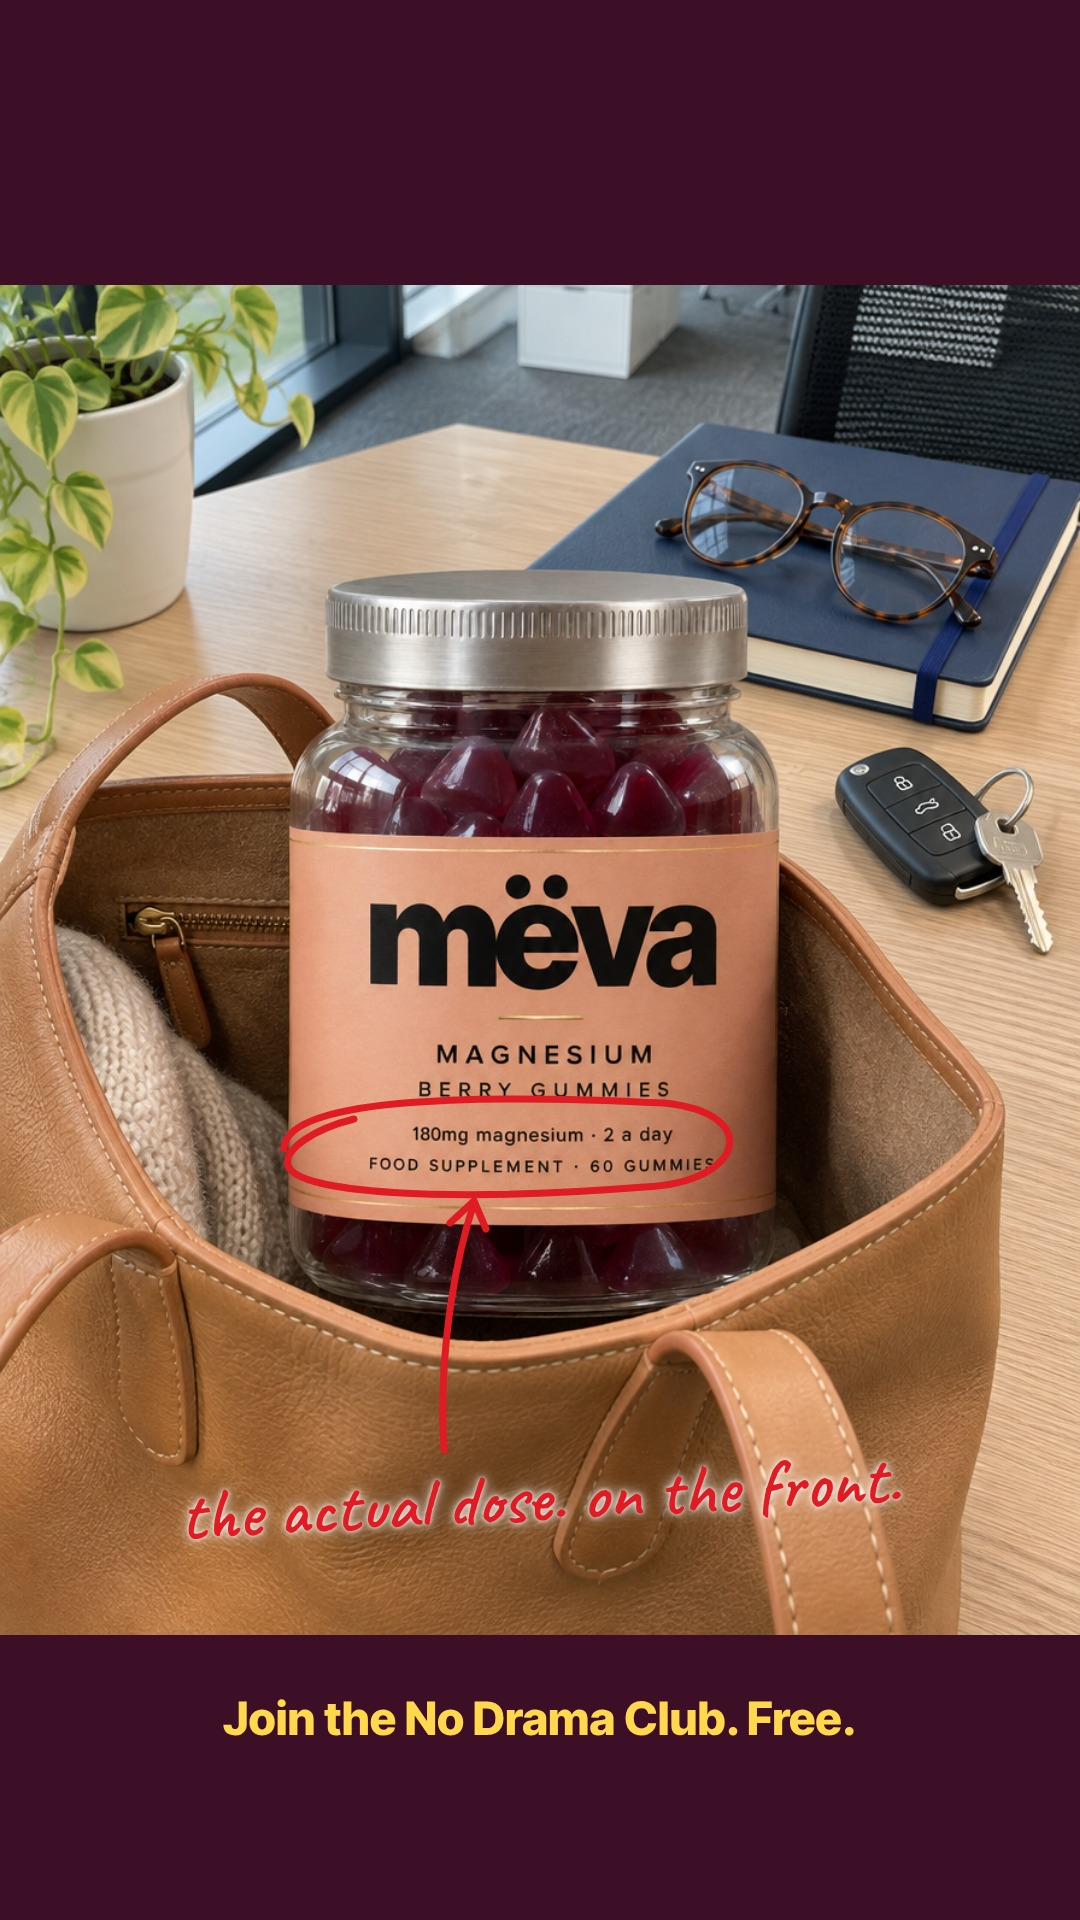
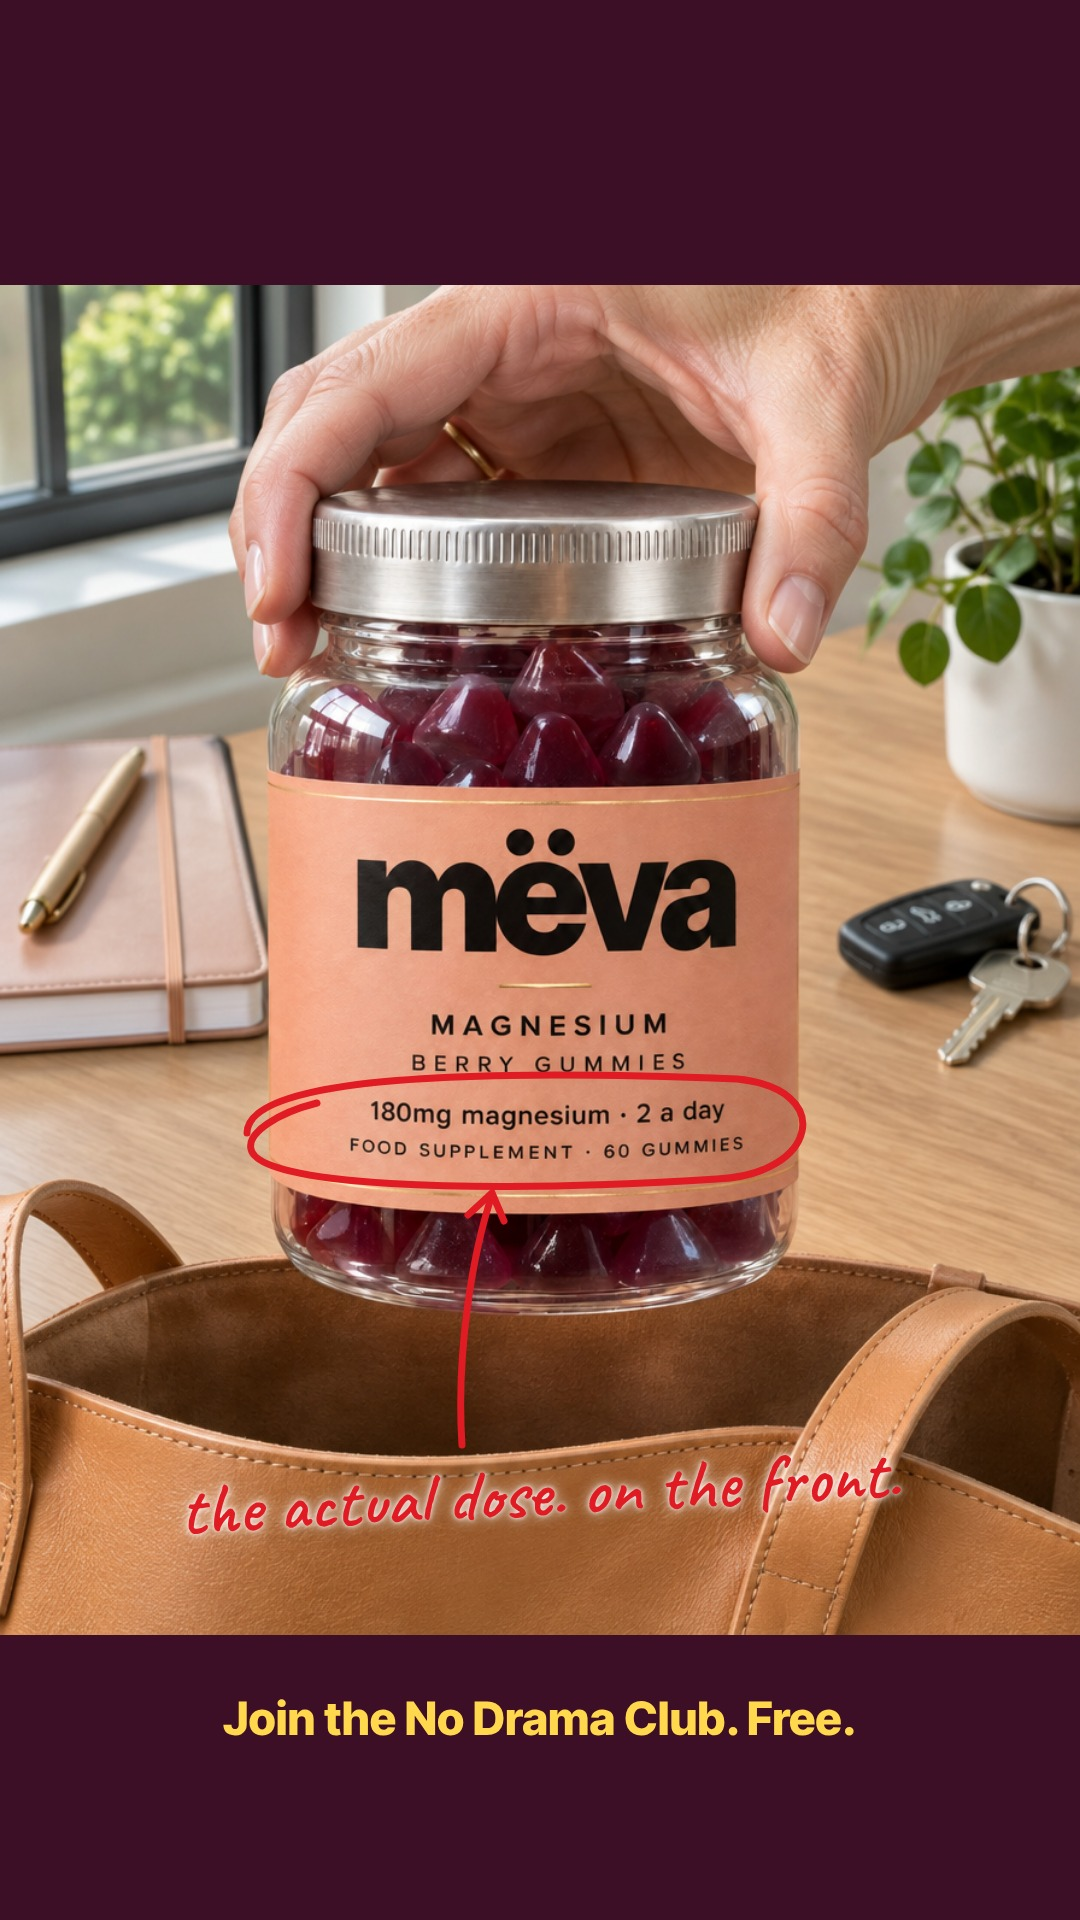
Mëva R2: replace 2.2 bag photo
Claude-Session: https://claude.ai/code/session_01WXdKv1YfkNwKWVtsSuXmEc

diff --git a/meva/ads/r2-copy.md b/meva/ads/r2-copy.md
@@ -49,7 +49,7 @@ Magnesium contributes to the reduction of tiredness and fatigue.
 Join the No Drama Club for free. It costs nothing, and the first 500 get 20% off a single jar.
 
 ## Set 2: same note ("the actual dose. on the front."), 5 new photos
-Photos: 2.1 bathroom shelf · 2.2 tote bag on desk · 2.3 kitchen windowsill · 2.4 held outdoors · 2.5 desk top-down.
+Photos: 2.1 bathroom shelf · 2.2 hand lifting jar out of tote bag · 2.3 kitchen windowsill · 2.4 held outdoors · 2.5 desk top-down.
 All five use the 1.1 text and headline, so the only thing that changes is the photo.
 
 ## Set 3: A5_whole-routine + C3_meva-maths
